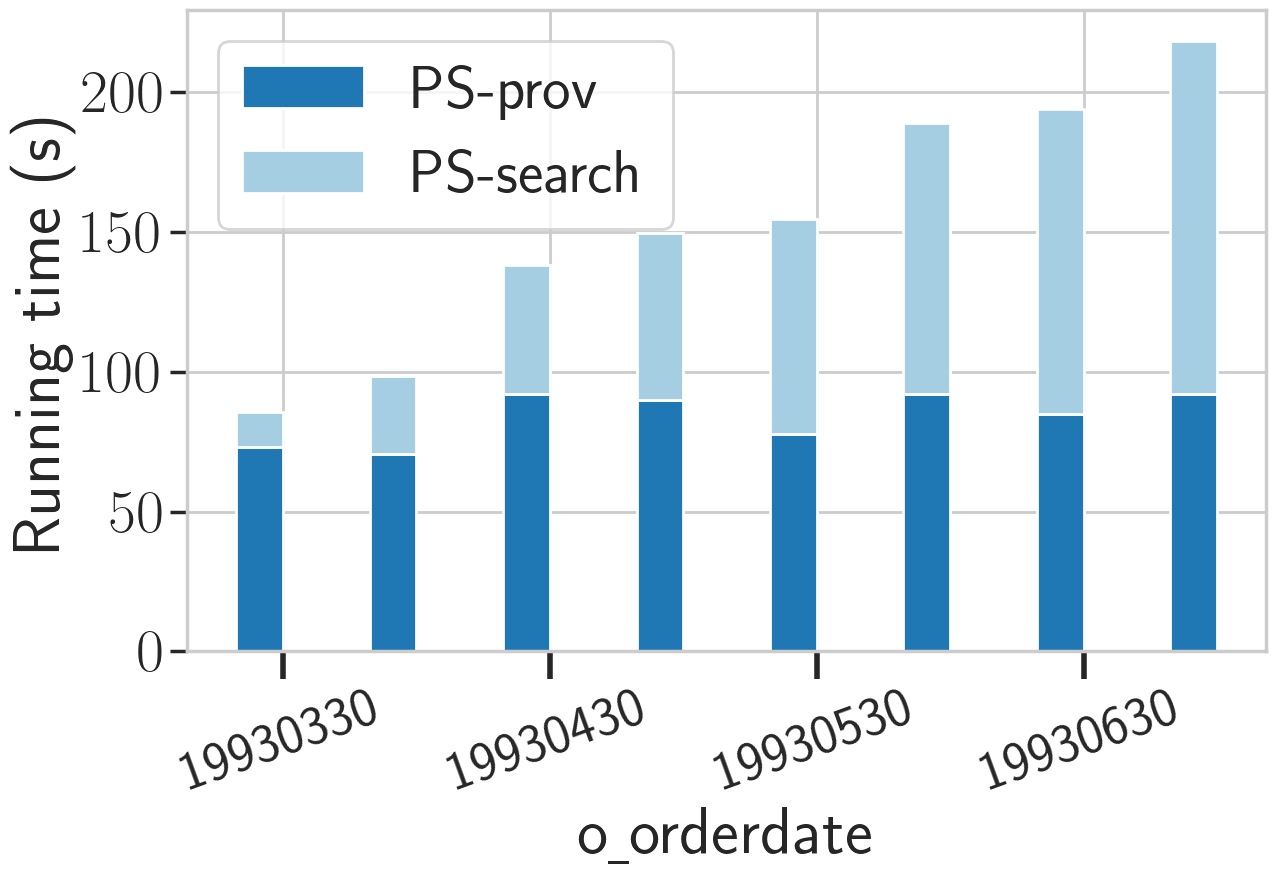
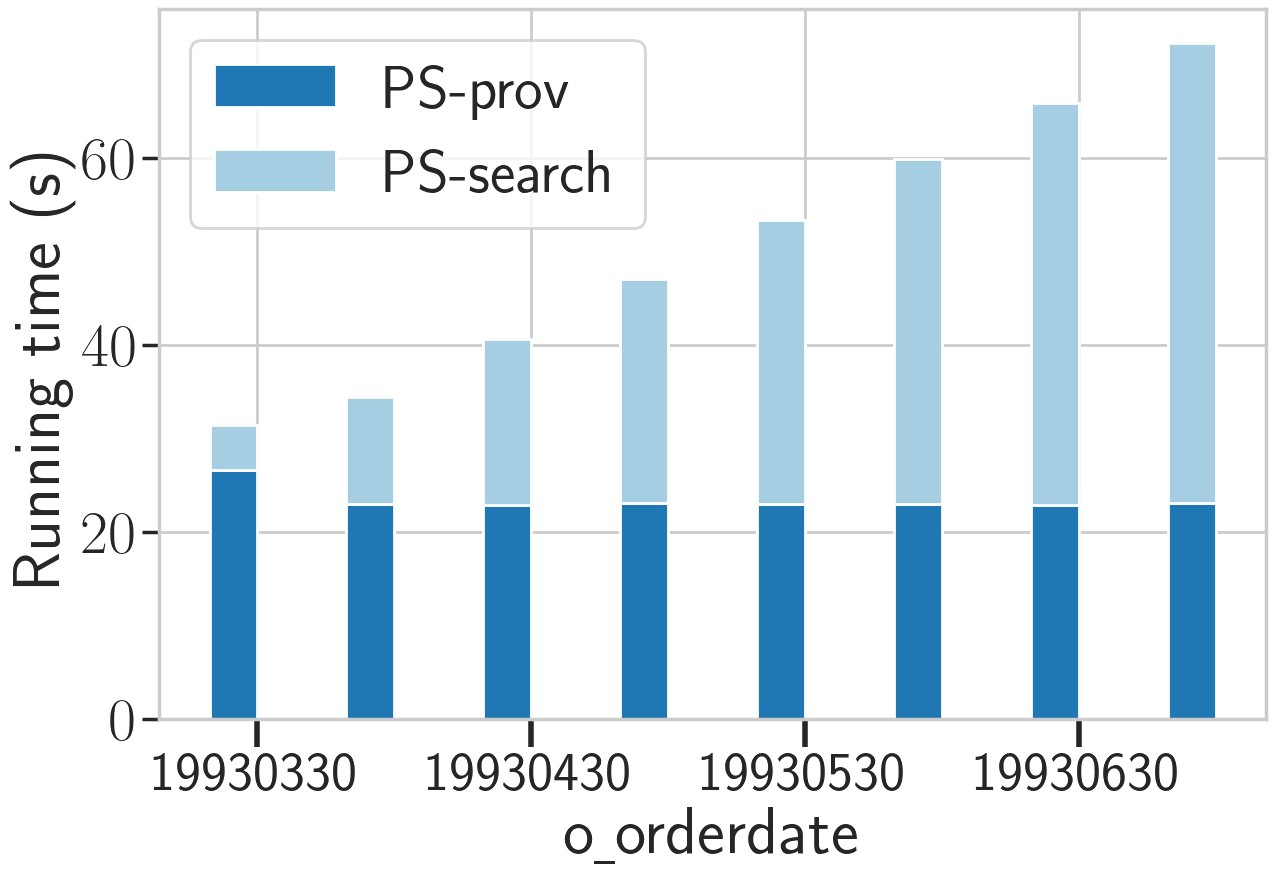
tpch 1G query selectivity q10 relax

diff --git a/Experiment/TPCH/1G/query_selectivity/q10_relax/fig.py b/Experiment/TPCH/1G/query_selectivity/q10_relax/fig.py
@@ -82,7 +82,7 @@ def run(query, size, constraint):
     #         color=color[3], label=label[3])
 
 
-    plt.xticks(np.arange(0, 8, 2) + bar_width/2, x_list, rotation=20, fontsize=40)
+    plt.xticks(np.arange(0, 8, 2) + bar_width/2, x_list, rotation=0, fontsize=40)
 
     plt.xlabel(r'o\underline{ }orderdate')
     plt.ylabel('Running time (s)')

diff --git a/Experiment/TPCH/1G/query_selectivity/q10_refine/query_change_1G_q10_refine.py b/Experiment/TPCH/1G/query_selectivity/q10_refine/query_change_1G_q10_refine.py
@@ -61,7 +61,7 @@ def run_constraint(c):
         # else:
         #     print("running time = {}".format(running_time2))
         #
-        # print(*minimal_refinements1, sep="\n")
+        # print(*minimal_refinements2, sep="\n")
 
         result_output.write("\n")
         idx = i
